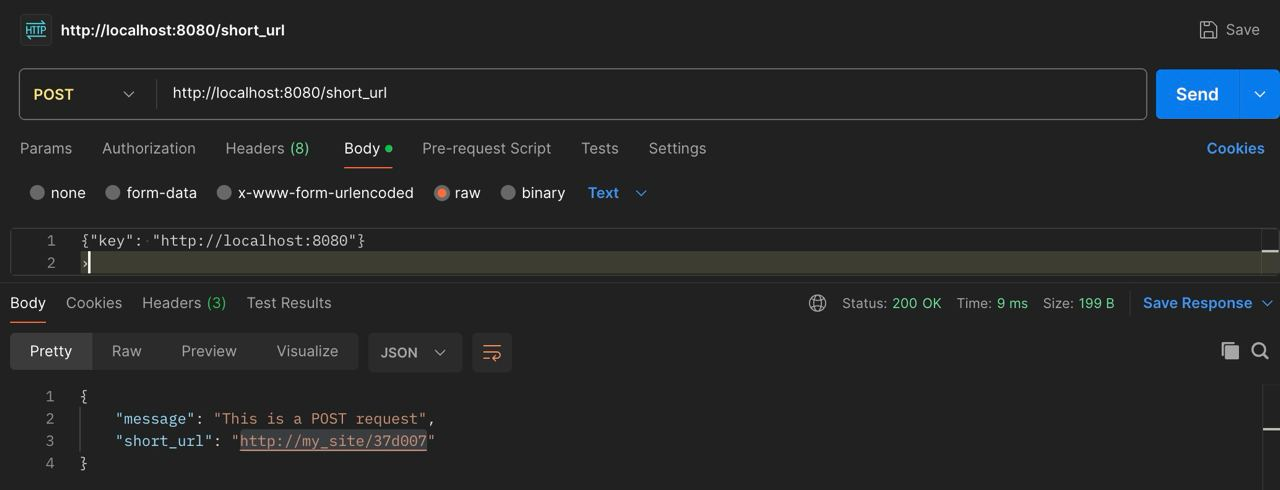
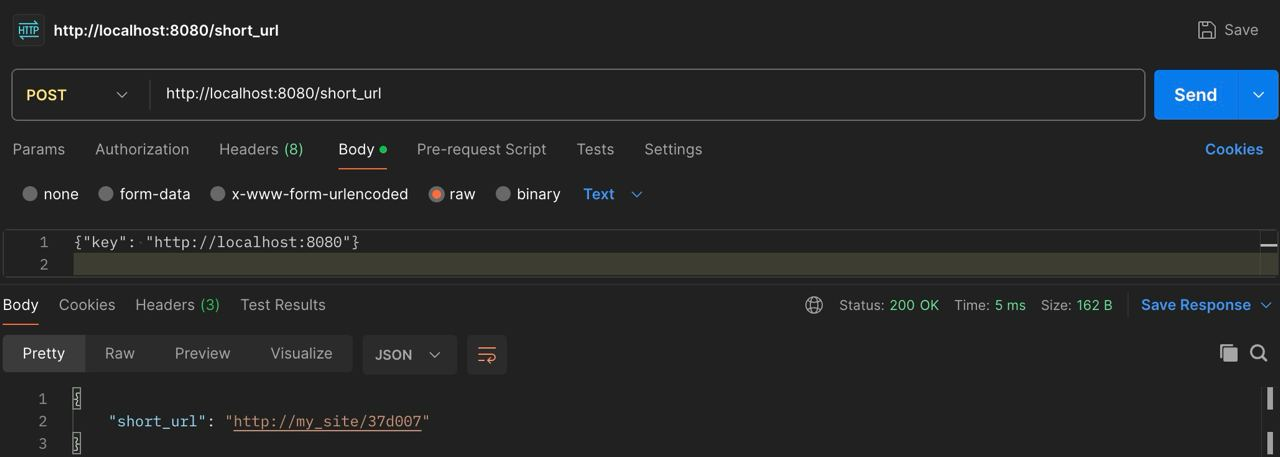
Change images for docs

diff --git a/src/url_shortener/entrypoint/http_server.py b/src/url_shortener/entrypoint/http_server.py
@@ -51,7 +51,6 @@ class HTTPRequestHandler(BaseHTTPRequestHandler):
                 }
 
                 response = {
-                    "message": "This is a POST request",
                     "short_url": post_data_answer['short_url'],
                 }
 
@@ -88,7 +87,6 @@ class HTTPRequestHandler(BaseHTTPRequestHandler):
                 )
 
                 response = {
-                    "message": "This is a GET request",
                     "full_url": response_presenation.full_url,
                 }
 

diff --git a/README.md b/README.md
@@ -25,7 +25,7 @@
 1. Создать короткую ссылку на основе полной ссылки и получить короткую ссылку\
 ```curl -X POST -d '{"key": "http://localhost:8080"}' -H "Content-Type: application/json" http://localhost:8080/short_url```
 2. Получить полную ссылку по короткой ссылке. Короткую ссылку можно получить после её создания \
-```curl "http://localhost:8080/short_url?full_url=my_site/37d007"```
+```url "http://localhost:8080/short_url?full_url=http://my_site/37d007"```
 
 ![post](/docs/POST.jpg "POST example")
 ![get](/docs/GET.jpg "GET example")
